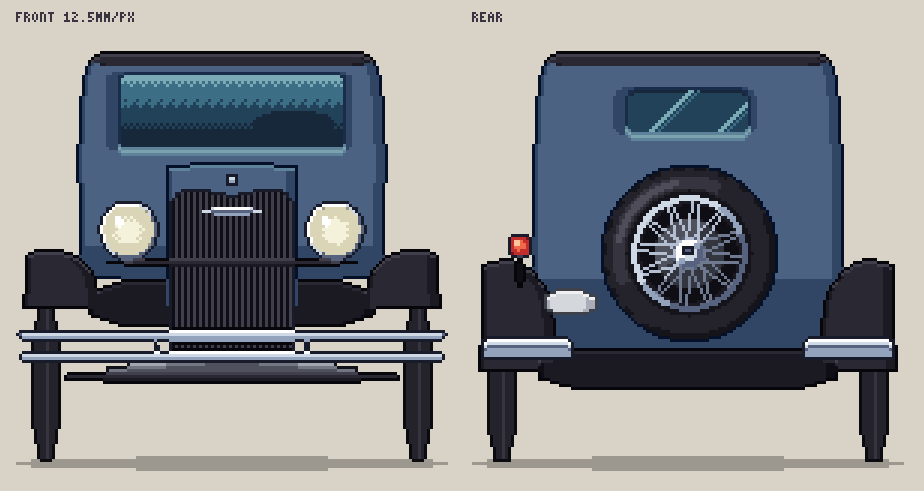
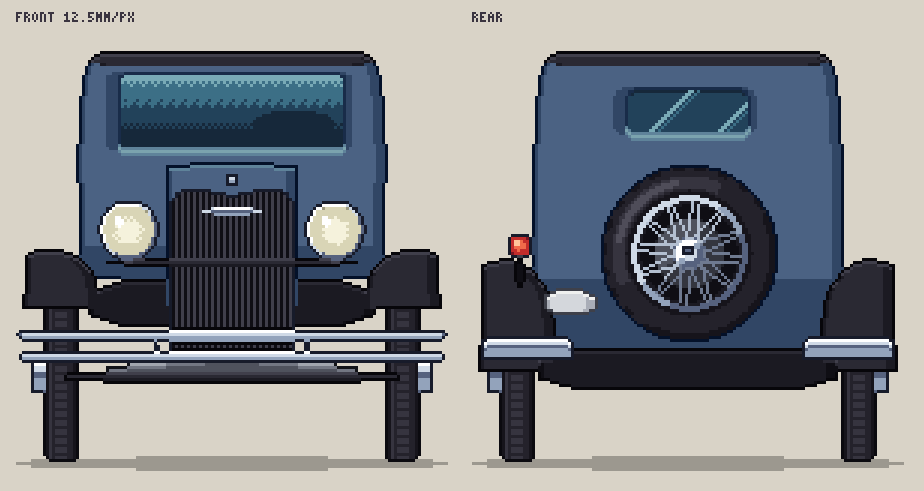
Front-view tyre sections from tyre code, streamline replicas (airflow-type, prow-grille coupe), detailed sidevalve engine from bay photos; reference analysis 3
Claude-Session: https://claude.ai/code/session_01BMyqTudGWpuTphuwn8oTvi

diff --git a/gearhouse/docs/REFERENCE_ANALYSIS_3.md b/gearhouse/docs/REFERENCE_ANALYSIS_3.md
@@ -1,0 +1,60 @@
+# 레퍼런스 분석 3차 — 정면 타이어, 유선형 2종, 엔진룸, 하부 구조
+
+입력: 사용자 제공 19장 (엔진룸 3, 하부 4, 프레임 1, 섀시 평면 + 측면 1, 유선형 4면도·사진 5, 기존 스포츠·고급 5).
+
+## 1. 정면 타이어가 얇아 보이던 문제
+
+| 원인 | 수정 |
+|---|---|
+| 정면 타이어를 단순 직사각형(폭 120mm, 공칭 단면폭 그대로)으로 그림 | 타이어 규격에서 단면폭을 가져와 **공기압 부풂 ×1.28** 적용 (4.75-19 → 약 155mm) |
+| 형상이 기둥 같음 | 타이어를 정면에서 본 실제 실루엣인 **알약형(stadium)**: 모서리 R = 폭 × 0.48 |
+| 음영이 단조로움 | 가운데 트레드 크라운은 밝게 + 3px 간격 트레드 줄무늬, 옆벽은 바깥으로 갈수록 어둡게, 좌측 옆벽 볼록 하이라이트 |
+| 바퀴 위치가 임의값 | 트레드(차축 폭) 1422mm 기준 중심 ±711 |
+| 허브가 안 보임 | 바깥쪽으로 돌출된 크롬 허브캡 |
+
+## 2. 유선형 측정
+
+| 항목 | 1934 에어플로형 세단 | 1937 V 그릴 패스트백 쿠페 |
+|---|---|---|
+| 축척 근거 | 블루프린트 WB 표기 3251 → 13.6mm/px | 사진, WB 122in(3099) → 9.48mm/px |
+| 타이어 | 6.50-16 화이트월, 차체색 휠 + 허브캡 | 7.00-16 **와이드 화이트월** (OD 755 실측 일치) |
+| 전장 / 전고 | 약 4,910 / 1,520 | 약 4,930 / 1,690 |
+| 노즈 | 둥근 폭포형 그릴, 헤드램프가 노즈 측면에 매립 | 뱃머리형 V 그릴, 램프가 펜더 앞에 매립 |
+| 앞유리 | 약 45° 경사, 카울 = 앞차축 + 0.26WB | 약 32° |
+| 창 | 앞 모서리가 A필러와 평행, 뒤 창은 루프를 따라 둥글게 | **D자형 단일 창** (3창 쿠페) |
+| 펜더 | 앞펜더는 차체와 통합(아치만 뚫림), 뒤는 **스커트** | 큰 앞펜더가 길게 흘러 러닝보드로, 뒤 펜더는 독립 |
+| 범퍼 | **3단 가는 바** + 클램프 | 단일 블레이드 + 오버라이더 |
+| 장식 | 후드 옆 가로 루버 5줄(앞쪽이 짧음), 벨트 이중 크롬 라인, 트렁크 사선 스피어 | 노즈 측면 그릴 바 래핑, 카울 스피어, 보드 몰딩, 후드 오너먼트 |
+
+## 3. 엔진룸 사진 → 사이드밸브 직렬4 디테일 (5mm/px)
+
+| 관찰 | 반영 |
+|---|---|
+| 평평한 헤드, 볼트 2열 | 헤드 슬랩 + 볼트 9개 × 2열 |
+| 헤드 위 점화플러그 4개 + 배선, 앞 디스트리뷰터 | 플러그(자기 절연체 흰색) + 검은 배선 → 디스트리뷰터 캡 |
+| 헤드 앞 물 배출구, 굵은 상부 호스, 워터펌프·팬 | 배출구 주물 + 고무 호스 + 팬(옆에서 본 모습) |
+| 블록 옆 녹슨 배기 매니폴드, 그 위 아치형 흡기 매니폴드, 아래 업드래프트 캐브 | 배기 로그(녹 색) + 포트 3개, 흡기 아치 → 황동 캐브 + 하부 흡입구, 동관 연료라인 |
+| 발전기, 오일 필러 캡, 스타터, 벨하우징 | 각 부품 |
+| 블록 색: 녹회색 도장, 주물 거친 표면 | 엔진그린 램프 + 주물 반점 + 그라데이션 |
+
+## 4. 하부·프레임·섀시 사진 (X-ray와 하부 뷰에 쓸 패턴)
+
+| 구성 | 관찰 (1930 소형차 하부 사진 4장 + 프레임 사진 1장) |
+|---|---|
+| 프레임 | 채널 단면 사다리 2레일, 앞은 좁고 뒤는 넓음(테이퍼), 뒤차축 위 킥업, 크로스멤버 3~4개 |
+| 앞 | 빔 액슬 위 횡치 리프, **V자 래디어스 로드("위시본")**가 변속기 뒤 볼 조인트로 모임, 드래그 링크·타이로드 |
+| 가운데 | 토크튜브(중앙 굵은 관), 브레이크 로드가 프레임을 따라 뒤로, 바닥판 |
+| 뒤 | 디퍼렌셜(호박형) + 액슬 튜브, 액슬 위 횡치 리프, 뒤 래디어스 로드가 토크튜브 앞쪽으로 모임 |
+| 배기 | 머플러가 프레임 한쪽에 평행, 테일파이프는 뒤로 |
+| 유럽 소형차 섀시 평면도 | X멤버 프레임, 배터리 박스, 뒤 연료탱크, 오픈 프로펠러 샤프트 (호치키스) |
+
+→ X-ray(측면)는 이미 반영(프레임 킥업, 스프링, 래디어스 로드, 토크튜브). **하부 평면 뷰(차를 아래에서 본 모습)**는 디자인 스튜디오의 "하부" 탭용으로 다음 단계에서 생성.
+
+## 5. 승인된 자료 출처 (허용 호스트)
+
+patents.google.com, patentimages.storage.googleapis.com, upload.wikimedia.org, commons.wikimedia.org,
+www.thehenryford.org, thehenryford.org, archive.org, babel.hathitrust.org, www.loc.gov, tile.loc.gov, www.shorpy.com,
+www.the-blueprints.com, www.carstyling.ru, en.wikipedia.org, www.conceptcarz.com, www.coachbuilt.com, www.oldcarbrochures.com, www.mafca.com
+
+- archive.org 파일 다운로드는 `ia*.us.archive.org` 서버로 리디렉트됩니다. 와일드카드는 허용되지 않아, 필요할 때 해당 서버 이름을 개별 승인 요청합니다.
+- the-blueprints.com 등 상업 도면은 측정 참고용으로만 쓰고 저장소에는 넣지 않습니다.

diff --git a/gearhouse/README.md b/gearhouse/README.md
@@ -15,6 +15,7 @@
 | [docs/ROADMAP.md](docs/ROADMAP.md) | 개발 계획: 기술 스택, 폴더 구조, 마일스톤, 콘텐츠 물량, 툴 체인, 리스크 |
 | [docs/E1_1930S_PLAN.md](docs/E1_1930S_PLAN.md) | 1930년대 제작 계획: 실차 복제 4종, 타이어 규격, VehicleDef(프레임·엔진·구동), 외장 프롭 224종 카탈로그, 단계별 보고 |
 | [docs/E1_DESIGN_LIMITS_AND_SOURCING.md](docs/E1_DESIGN_LIMITS_AND_SOURCING.md) | 박스형/유선형 선택, 연도별 곡률·비율 한계, 자료 수급 보고 |
+| [docs/REFERENCE_ANALYSIS_3.md](docs/REFERENCE_ANALYSIS_3.md) | 3차: 정면 타이어 단면, 유선형 2종 측정, 엔진룸·하부 패턴, 승인된 자료 출처 |
 | [docs/REFERENCE_ANALYSIS_2.md](docs/REFERENCE_ANALYSIS_2.md) | 2차 레퍼런스 분석: 범퍼·하부·창문·장식 패턴, 디테일 축척 12.5mm/px, 자료 요청 목록 |
 | [docs/REFERENCE_ANALYSIS.md](docs/REFERENCE_ANALYSIS.md) | 1930년대 블루프린트 측정 → 휠베이스 비율 규칙, 생성기 구조 규칙 |
 | [docs/PIXEL_ART_PIPELINE.md](docs/PIXEL_ART_PIPELINE.md) | Claude Code 픽셀아트 생성 계획: 픽셀 스케일, 생성 방식 4종(DSL·절차적·벡터 래스터·텍스처), 품질 규칙·린터, 작업 루프, 단계별 계획 |
@@ -33,6 +34,8 @@
 - `e1_town_sedan_views_x4.png`: 1930 타운 세단 4뷰 (타이어 규격 반영)
 - `e1_design_language_x3.png`: 박스형/유선형 × 1931/1935/1939, 슬라이더 극단값 클램프, 금지 조합 대체 — `node tools/pixel/samplesGen.mjs`
 - `e1_detail_before_after.png`, `e1_detail_front_rear.png`: 디테일 축척(12.5mm/px) 사실 묘사 — `node tools/pixel/samplesD.mjs`
+- `e1_streamline_detail.png`: 1934 에어플로형 세단 / 1937 V 그릴 패스트백 쿠페 (12.5mm/px)
+- `e1_engine_sv_detail.png`: 사이드밸브 직렬4 디테일 (엔진룸 사진 기반, 5mm/px)
 - `cars_1930s_side_x4.png`: 1930 업라이트 세단 / 1933 고급 카브리올레 / 1937 유선형 (블루프린트 비율 기반)
 - `car1930_views_x4.png`: 1930 세단 좌·우·정면·후면
 - `cars_side_x4.png`, `car57_views_x4.png`: 시대별 초기 샘플 (1950년대 이후는 아직 레퍼런스 미반영)
